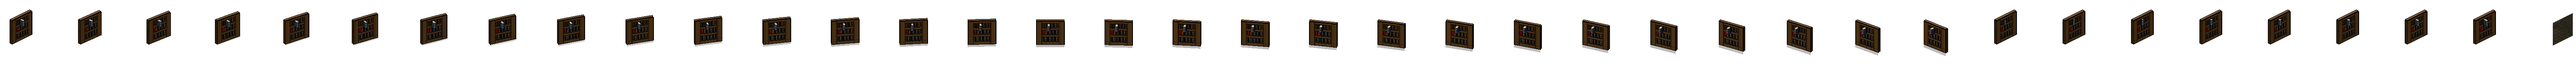
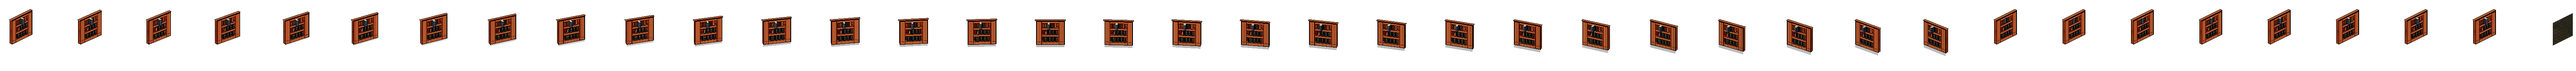
Bookcase door: in the hallway bookcases' wood instead of the Rooms' dark oak; its top board 2px longer at each end; the loose book 4px higher, standing on its shelf with the books beside it

Changed region(s): [[0.0, 0.1676, 0.968, 0.6983]]

diff --git a/tools/hallway-editor/ideas/art5.js b/tools/hallway-editor/ideas/art5.js
@@ -165,9 +165,9 @@ function bookDoor() {
     for (const [im, x, y] of parts) for (let j = 0; j < im.h; j++) for (let u = 0; u < im.w; u++) { const p = (j * im.w + u) * 4; if (im.rgba[p + 3] < 128) continue; const q = ((y + j - y0) * CW + x + u - x0) * 4; for (let k = 0; k < 4; k++) flat[q + k] = im.rgba[p + k]; }
     const SIDE = 16, Wd = CW - SIDE, T = 6, base = c => { for (let j = CH - 1; j >= 0; j--) if (flat[(j * CW + c) * 4 + 3]) return j; return 0; }, firstOf = c => { for (let j = 0; j < CH; j++) if (flat[(j * CW + c) * 4 + 3]) return j; return 0; };
     const Hh = base(CW - 1) - firstOf(CW - 1) + 1;
-    const BD = 20, BW = 4, BTOP = base(SIDE + BD) - 30 + 1, BH = 13;
+    const BD = 20, BW = 4, BROW = 26, BTOP = base(SIDE + BD) - BROW + 1, BH = 13;
     /* in the flat picture, just the dark slot it lives in */
-    const slot = new Uint8ClampedArray(flat); for (let v = 0; v < BH; v++) for (let u = -1; u < BW + 1; u++) { const X = SIDE + BD + u, Y = 30 - (u >> 1) + v, q = (Y * CW + X) * 4; slot[q] = 6; slot[q + 1] = 5; slot[q + 2] = 6; slot[q + 3] = 255; }
+    const slot = new Uint8ClampedArray(flat); for (let v = 0; v < BH; v++) for (let u = -1; u < BW + 1; u++) { const X = SIDE + BD + u, Y = BROW - (u >> 1) + v, q = (Y * CW + X) * 4; slot[q] = 6; slot[q + 1] = 5; slot[q + 2] = 6; slot[q + 3] = 255; }
     const ox = Wd + 24, oy = Hh + 24, Cw = Wd * 2 + 70, Ch = Hh + Wd + 70;
     const frameOf = (src, a0, pull = 0) => {
         const out = new Uint8ClampedArray(Cw * Ch * 4), door = new Uint8Array(Cw * Ch), sn = Math.sin(a0), cs = Math.cos(a0), u = [sn, -cs], nn = [cs, sn];
@@ -183,7 +183,7 @@ function bookDoor() {
         const X0 = S(F(0))[0], X1 = S(F(Wd))[0], k0 = 1 + .16 * Math.min(1, a0 / 1.2);
         for (let X = Math.round(X0); X <= Math.round(X1); X++) { const d = Math.min(Wd - 1e-3, Math.max(0, (X - X0) / (sn + cs))), c = SIDE + Math.floor(d), b0 = base(c), Yb = S(F(d))[1]; for (let r = 0; r < Hh; r++) { const sy = b0 - Hh + 1 + r; if (sy < 0) continue; const p = (sy * CW + c) * 4; if (!src[p + 3]) continue; put(X, Yb - Hh + 1 + r, Math.min(255, src[p] * k0), Math.min(255, src[p + 1] * k0), Math.min(255, src[p + 2] * k0)); } }
         /* the top */
-        const tq = [S(F(0), Hh), S(F(Wd), Hh), S(Bk(Wd), Hh), S(Bk(0), Hh)]; polyFill(tq, (x, y) => { const m = mod(x + y * 2, 9); if (m === 0) put(x, y, 104, 74, 46); else put(x, y, 126, 92, 58); });
+        const tq = [S(F(-2), Hh), S(F(Wd + 2), Hh), S(Bk(Wd + 2), Hh), S(Bk(-2), Hh)]; polyFill(tq, (x, y) => { const m = mod(x + y * 2, 9); if (m === 0) put(x, y, 160, 75, 37); else put(x, y, 195, 98, 51); });
         /* the book: side, top, then spine, all from the same three directions as the door */
         { const K0 = [4, 14, 26], P0 = d => { const f = F(d); return [f[0] + nn[0] * pull, f[1] + nn[1] * pull]; }, Q0 = d => F(d), z1 = BTOP, z0 = BTOP - BH, tone = (arr, k = 1) => arr.map(v => Math.min(255, v * k));
           const fill = (poly, col) => polyFill(poly, (x, y) => put(x, y, col[0], col[1], col[2]));
@@ -192,6 +192,10 @@ function bookDoor() {
           const Sa = S(P0(BD), z1), Sb = S(P0(BD + BW), z1), n0 = Math.round(Sa[0]), n1 = Math.round(Sb[0]); for (let X = n0; X <= n1; X++) { const t = n1 === n0 ? 0 : (X - n0) / (n1 - n0), Yt = Sa[1] + (Sb[1] - Sa[1]) * t; for (let v = 0; v <= BH; v++) { const edge = v === 0 || v === BH || X === n1, band = v === 3 || v === 10, cc = edge ? K0 : band ? (t < .3 ? [122, 98, 52] : [92, 72, 36]) : t < .3 ? [58, 66, 86] : t < .6 ? [44, 50, 66] : [34, 38, 52]; put(X, Yt + v, cc[0], cc[1], cc[2]); }
             /* where it is, for the page to know a click on it: it can't be found by its colour any more */
             if (pull === 0) bookAt = { x0: n0, x1: n1, y0: Math.floor(Math.min(Sa[1], Sb[1])), y1: Math.ceil(Math.max(Sa[1], Sb[1]) + BH) }; } }
+        /* the wood, in the hallway bookcase's colours: the Rooms shelves it's made from are a much darker oak */
+        for (let i = 0; i < Cw * Ch; i++) { if (!door[i]) continue; const q = i * 4, r = out[q], g = out[q + 1], b = out[q + 2]; if (!(r >= g && g >= b && r - b > 8)) continue;
+            const mx = Math.max(r, g, b), mn = Math.min(r, g, b), sat = (mx - mn) / Math.max(1, mx), l = r * .3 + g * .59 + b * .11; if (sat < .4 || l > 62) continue;
+            const c = l < 18 ? [51, 0, 0] : l < 29 ? [126, 37, 10] : l < 38 ? [148, 56, 23] : l < 48 ? [160, 75, 37] : [195, 98, 51]; out[q] = c[0]; out[q + 1] = c[1]; out[q + 2] = c[2]; }
         /* a black line round the whole door, like every sprite */
         const edge = []; for (let y = 1; y < Ch - 1; y++) for (let x = 1; x < Cw - 1; x++) if (door[y * Cw + x] && (!door[y * Cw + x - 1] || !door[y * Cw + x + 1] || !door[(y - 1) * Cw + x] || !door[(y + 1) * Cw + x])) edge.push((y * Cw + x) * 4);
         for (const q of edge) { out[q] = 0; out[q + 1] = 0; out[q + 2] = 0; out[q + 3] = 255; }

diff --git a/tools/hallway-editor/make-ideas-art.js b/tools/hallway-editor/make-ideas-art.js
@@ -148,7 +148,7 @@ add("rathole", "Rat hole", "tell", (c, a) => L.put(c, A5.hole("x"), a[0], a[1]),
   /* a thin band under the top board was see-through, so the wallpaper showed between it and the shelves (his, 8 Nov: "a gap near the top"):
      in each frame of the case, any clear pixel between the case's top and its foot in a column is filled with the case's dark wood */
   for (const q of [...F.frames, ...F.pulls]) for (let x = 0; x < q.w; x++) { let top = -1, bot = -1; for (let y = 0; y < q.h; y++) if (q.rgba[(y * q.w + x) * 4 + 3] >= 128) { if (top < 0) top = y; bot = y; } if (top < 0) continue;
-      for (let y = top; y <= bot; y++) { const i = (y * q.w + x) * 4; if (q.rgba[i + 3] >= 128) continue; q.rgba[i] = 34; q.rgba[i + 1] = 18; q.rgba[i + 2] = 9; q.rgba[i + 3] = 255; } }
+      for (let y = top; y <= bot; y++) { const i = (y * q.w + x) * 4; if (q.rgba[i + 3] >= 128) continue; q.rgba[i] = 51; q.rgba[i + 1] = 0; q.rgba[i + 2] = 0; q.rgba[i + 3] = 255; } }
   const all = [...F.frames, ...F.pulls, pass], trim = q => q; let W = 0, Hh = 0; const put2 = all.map(q => { const at = W; W += q.w + 1; Hh = Math.max(Hh, q.h); return at; }), out = new Uint8ClampedArray(W * Hh * 4);
   all.forEach((q, n) => { for (let y = 0; y < q.h; y++) for (let x = 0; x < q.w * 4; x++) out[(y * W + put2[n]) * 4 + x] = q.rgba[y * q.w * 4 + x]; });
   const dir = path.join(__dirname, "art", "ideas"), meta = (q, n) => ({ x: put2[n], w: q.w, h: q.h, ox: q.ox, oy: q.oy }); fs.writeFileSync(path.join(dir, "book.png"), encodePng(W, Hh, Buffer.from(out))); fs.writeFileSync(path.join(dir, "book.json"), JSON.stringify({ book: F.book, frames: F.frames.map(meta), pulls: F.pulls.map((q, i) => meta(q, F.frames.length + i)), passage: meta(pass, all.length - 1), W: F.W, H: F.H, STEP: F.STEP }));
